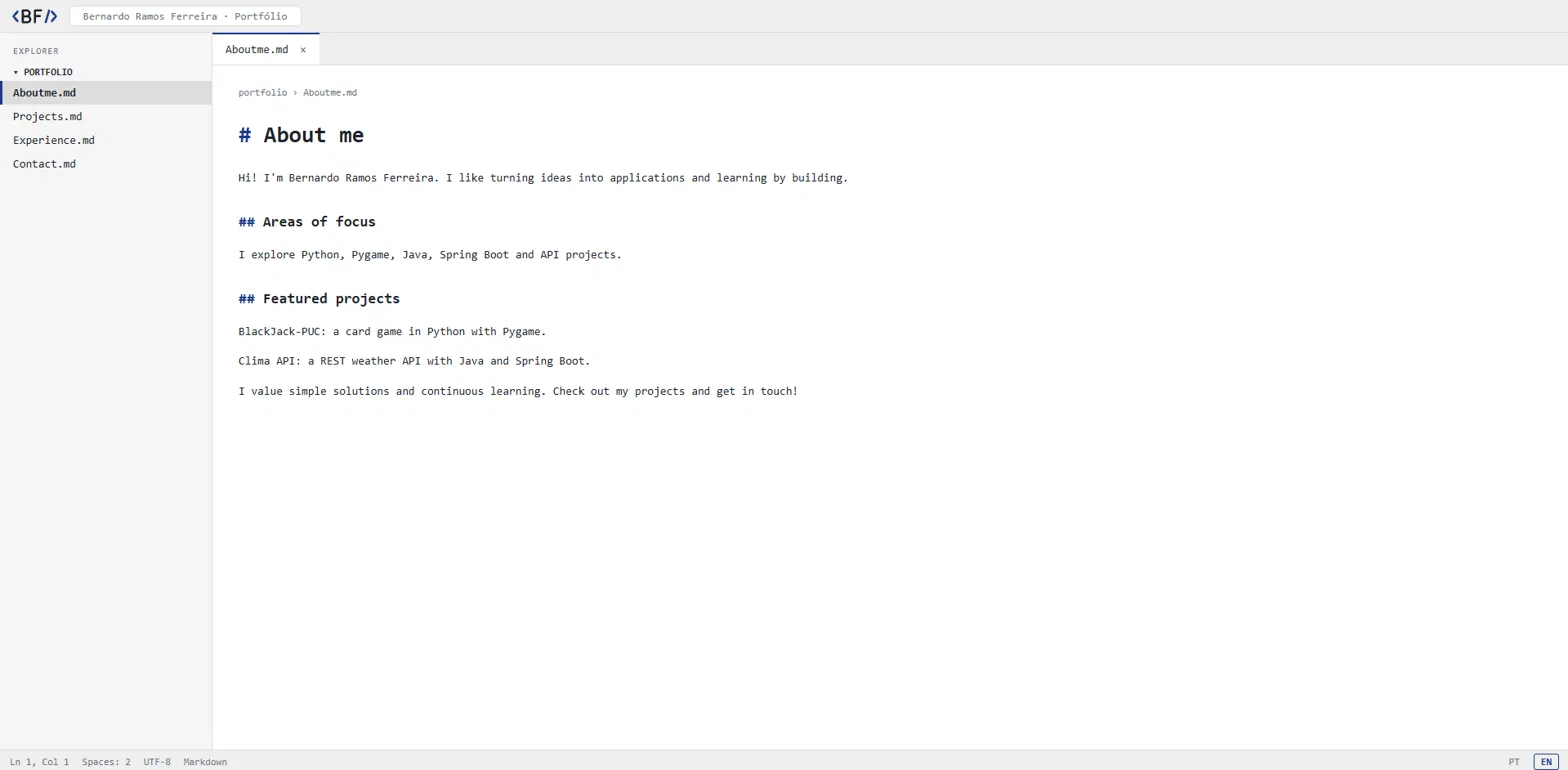
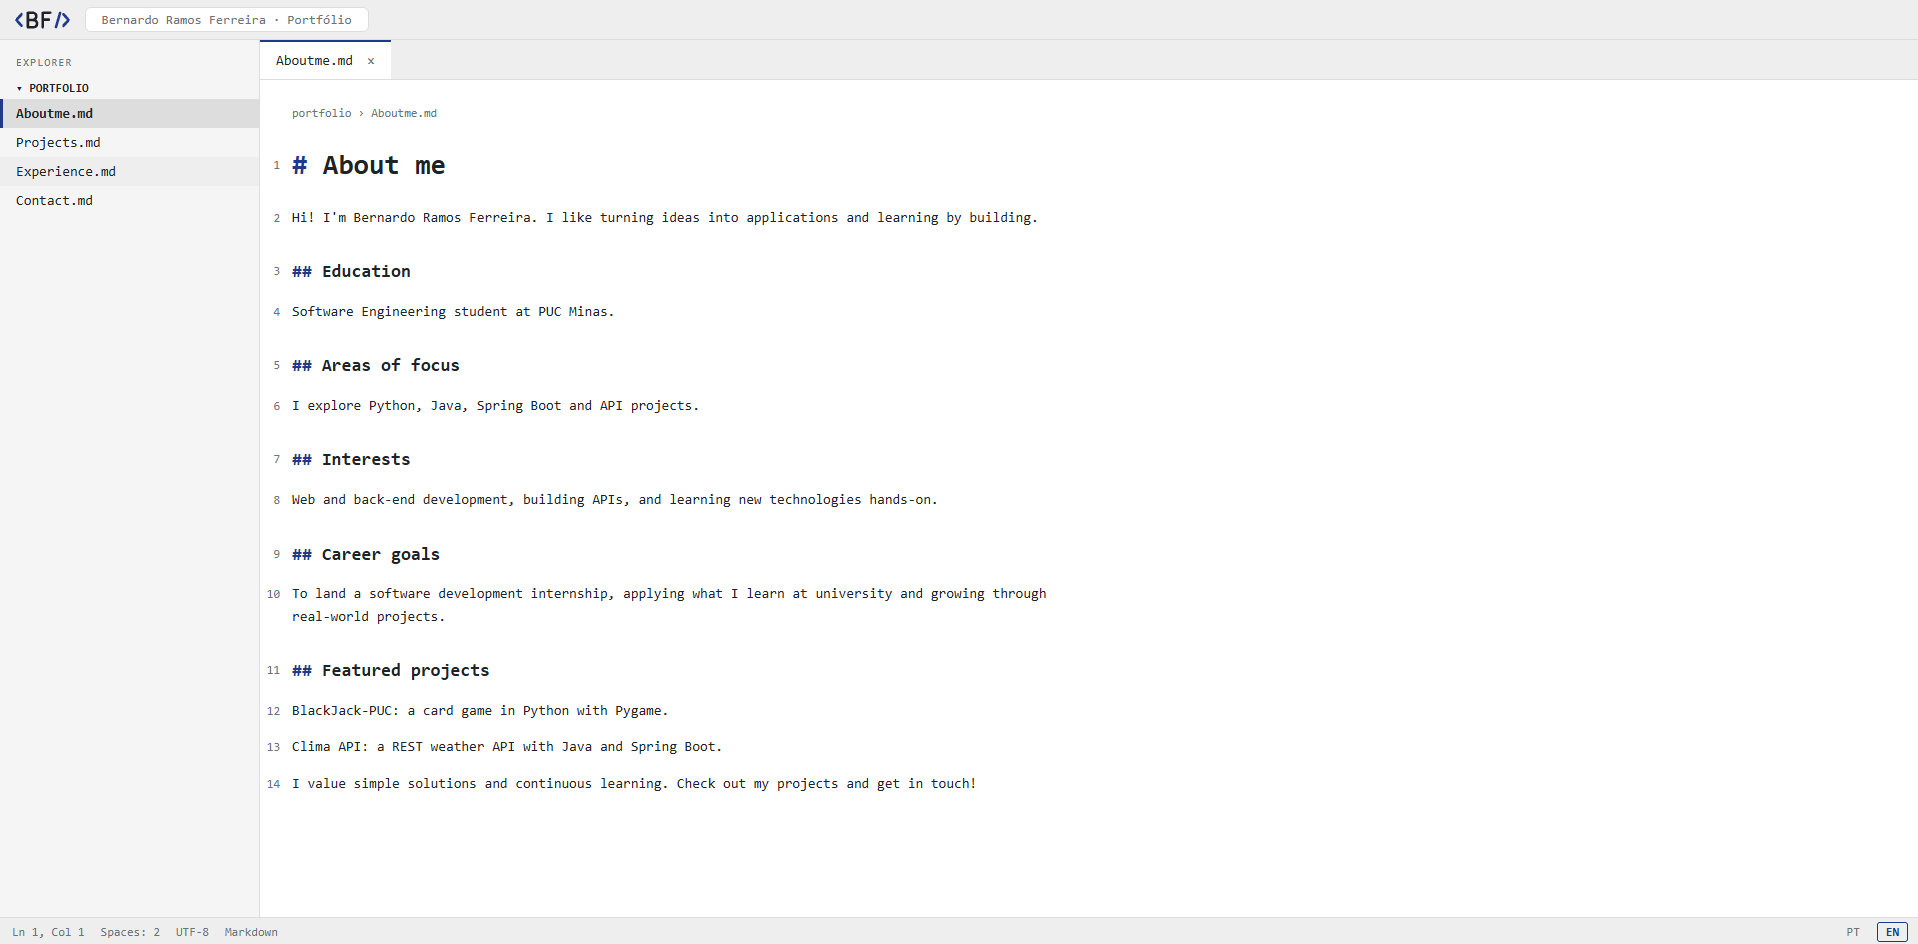
Ícones em contato + prints e readme atualizados após mudanças + descrições completas de projetos

diff --git a/src/i18n/textos.js b/src/i18n/textos.js
@@ -3,8 +3,14 @@ export const textos = {
         sobre: {
             titulo: "Sobre mim",
             apresentacao: "Olá! Sou Bernardo Ramos Ferreira. Gosto de transformar ideias em aplicações e aprender construindo.",
+            formacaoTitulo: "Formação",
+            formacao: "Estudante de Engenharia de Software na PUC Minas.",
             areasTitulo: "Áreas de atuação",
-            areas: "Exploro Python, Pygame, Java, Spring Boot e APIs.",
+            areas: "Exploro Python, Java, Spring Boot e APIs.",
+            interessesTitulo: "Interesses",
+            interesses: "Desenvolvimento web e back-end, criação de APIs e aprender tecnologias novas na prática.",
+            objetivosTitulo: "Objetivos profissionais",
+            objetivos: "Conquistar uma oportunidade de estágio em desenvolvimento de software, aplicando o que aprendo na faculdade e crescendo com projetos reais.",
             destaquesTitulo: "Projetos em destaque",
             destaque1: "BlackJack-PUC: um jogo de cartas em Python com Pygame.",
             destaque2: "Clima API: uma API REST de clima com Java e Spring Boot.",
@@ -47,8 +53,14 @@ export const textos = {
         sobre: {
             titulo: "About me",
             apresentacao: "Hi! I'm Bernardo Ramos Ferreira. I like turning ideas into applications and learning by building.",
+            formacaoTitulo: "Education",
+            formacao: "Software Engineering student at PUC Minas.",
             areasTitulo: "Areas of focus",
-            areas: "I explore Python, Pygame, Java, Spring Boot and API projects.",
+            areas: "I explore Python, Java, Spring Boot and API projects.",
+            interessesTitulo: "Interests",
+            interesses: "Web and back-end development, building APIs, and learning new technologies hands-on.",
+            objetivosTitulo: "Career goals",
+            objetivos: "To land a software development internship, applying what I learn at university and growing through real-world projects.",
             destaquesTitulo: "Featured projects",
             destaque1: "BlackJack-PUC: a card game in Python with Pygame.",
             destaque2: "Clima API: a REST weather API with Java and Spring Boot.",

diff --git a/src/data/projetos.js b/src/data/projetos.js
@@ -4,8 +4,8 @@ export const projetos = [
         nome: "BlackJack-PUC",
         periodo: { pt: "Maio 2026", en: "May 2026" },
         descricao: {
-            pt: "Jogo de cartas em Python",
-            en: "Card game in Python",
+            pt: "Jogo de blackjack em Python com Pygame. O jogador enfrenta o dealer, escolhe entre Hit e Stand e acompanha a pontuação da rodada na tela.",
+            en: "Blackjack game in Python with Pygame. The player faces the dealer, chooses between Hit and Stand, and follows the round score on screen.",
         },
         tecnologias: ["Python", "Pygame"],
         github: "https://github.com/bernardorf5/BlackJack-PUC",
@@ -16,8 +16,8 @@ export const projetos = [
         nome: "Clima API",
         periodo: { pt: "Ago 2026", en: "Aug 2026" },
         descricao: {
-            pt: "API REST de clima com Spring Boot",
-            en: "Weather REST API with Spring Boot",
+            pt: "API REST de clima com Java e Spring Boot. Recebe o nome de uma cidade (/clima?cidade=Lisboa) e devolve em JSON as condições atuais e a previsão de temperatura máxima e mínima dos próximos dias.",
+            en: "Weather REST API with Java and Spring Boot. It takes a city name (/clima?cidade=Lisboa) and returns, as JSON, the current conditions and the max/min temperature forecast for the coming days.",
         },
         tecnologias: ["Java", "Spring Boot"],
         github: "https://github.com/chicortes/DIAW-At01",

diff --git a/src/components/Icone.jsx b/src/components/Icone.jsx
@@ -1,0 +1,40 @@
+const caminhos = {
+    email: (
+        <>
+            <path d="M4 4h16c1.1 0 2 .9 2 2v12c0 1.1-.9 2-2 2H4c-1.1 0-2-.9-2-2V6c0-1.1.9-2 2-2z" />
+            <polyline points="22,6 12,13 2,6" />
+        </>
+    ),
+    whatsapp: (
+        <path d="M21 11.5a8.38 8.38 0 0 1-.9 3.8 8.5 8.5 0 0 1-7.6 4.7 8.38 8.38 0 0 1-3.8-.9L3 21l1.9-5.7a8.38 8.38 0 0 1-.9-3.8 8.5 8.5 0 0 1 4.7-7.6 8.38 8.38 0 0 1 3.8-.9h.5a8.48 8.48 0 0 1 8 8v.5z" />
+    ),
+    linkedin: (
+        <>
+            <path d="M16 8a6 6 0 0 1 6 6v7h-4v-7a2 2 0 0 0-2-2 2 2 0 0 0-2 2v7h-4v-7a6 6 0 0 1 6-6z" />
+            <rect x="2" y="9" width="4" height="12" />
+            <circle cx="4" cy="4" r="2" />
+        </>
+    ),
+    github: (
+        <path d="M9 19c-5 1.5-5-2.5-7-3m14 6v-3.87a3.37 3.37 0 0 0-.94-2.61c3.14-.35 6.44-1.54 6.44-7A5.44 5.44 0 0 0 20 4.77 5.07 5.07 0 0 0 19.91 1S18.73.65 16 2.48a13.38 13.38 0 0 0-7 0C6.27.65 5.09 1 5.09 1A5.07 5.07 0 0 0 5 4.77a5.44 5.44 0 0 0-1.5 3.78c0 5.42 3.3 6.61 6.44 7A3.37 3.37 0 0 0 9 18.13V22" />
+    ),
+}
+
+function Icone({ nome }) {
+    return (
+        <svg
+            className="icone"
+            viewBox="0 0 24 24"
+            fill="none"
+            stroke="currentColor"
+            strokeWidth="2"
+            strokeLinecap="round"
+            strokeLinejoin="round"
+            aria-hidden="true"
+        >
+            {caminhos[nome]}
+        </svg>
+    )
+}
+
+export default Icone

diff --git a/src/pages/Contato.jsx b/src/pages/Contato.jsx
@@ -1,6 +1,7 @@
 import { textos } from '../i18n/textos'
 import { contatos } from '../data/contatos'
 import FormularioContato from '../components/FormularioContato'
+import Icone from '../components/Icone'
 
 function Contato({ idioma }) {
     const t = textos[idioma].contato
@@ -14,7 +15,8 @@ function Contato({ idioma }) {
                 {contatos.map((contato) => (
                     <li key={contato.id}>
                         <a href={contato.link} target={contato.externo ? "_blank" : undefined} rel={contato.externo ? "noreferrer" : undefined}>
-                            {contato.nome} {contato.detalhe}
+                            <Icone nome={contato.id} />
+                            <span>{contato.nome} {contato.detalhe}</span>
                         </a>
                     </li>
                 ))}

diff --git a/src/pages/SobreMim.jsx b/src/pages/SobreMim.jsx
@@ -7,8 +7,14 @@ function SobreMim({ idioma }) {
         <section>
             <h1>{t.titulo}</h1>
             <p>{t.apresentacao}</p>
+            <h2>{t.formacaoTitulo}</h2>
+            <p>{t.formacao}</p>
             <h2>{t.areasTitulo}</h2>
             <p>{t.areas}</p>
+            <h2>{t.interessesTitulo}</h2>
+            <p>{t.interesses}</p>
+            <h2>{t.objetivosTitulo}</h2>
+            <p>{t.objetivos}</p>
             <h2>{t.destaquesTitulo}</h2>
             <p>{t.destaque1}</p>
             <p>{t.destaque2}</p>

diff --git a/src/index.css b/src/index.css
@@ -265,7 +265,9 @@ body {
 }
 
 .canais a {
-    display: block;
+    display: flex;
+    align-items: center;
+    gap: 10px;
     padding: 10px 14px;
     background: var(--bg-lateral);
     border: 1px solid var(--borda);
@@ -275,6 +277,13 @@ body {
 
 .canais a:hover {
     border-color: var(--destaque);
+}
+
+.canais .icone {
+    width: 20px;
+    height: 20px;
+    flex-shrink: 0;
+    color: var(--destaque);
 }
 
 .editor form {

diff --git a/README.md b/README.md
@@ -1,7 +1,6 @@
 # 💻 Portfólio
 
-> [!NOTE]
-> Portfólio profissional em formato de **editor de código**: cada seção do site é um arquivo e os projetos aparecem como commits de um `git log`.
+> Portfólio profissional em formato de **editor de código**: cada seção do site é um arquivo e os projetos aparecem em uma timeline vertical, como um histórico de commits.
 
 <p align="center"><img src="docs/logo.svg" alt="Logo BF" width="200"></p>
 
@@ -9,7 +8,7 @@
 
 ## 🚧 Status do Projeto
 
-![Status](https://img.shields.io/badge/Status-Em_desenvolvimento-yellow?style=for-the-badge)
+![Status](https://img.shields.io/badge/Status-Conclu%C3%ADdo-brightgreen?style=for-the-badge)
 ![React](https://img.shields.io/badge/React-007ec6?style=for-the-badge&logo=react&logoColor=white)
 ![Vite](https://img.shields.io/badge/Vite-007ec6?style=for-the-badge&logo=vite&logoColor=white)
 ![Vercel](https://img.shields.io/badge/Vercel-007ec6?style=for-the-badge&logo=vercel&logoColor=white)
@@ -43,7 +42,7 @@
 
 Este projeto é o meu **portfólio profissional**, desenvolvido no Laboratório 01 da disciplina de Desenvolvimento e Integração de Aplicações Web (DIAW), do curso de Engenharia de Software da PUC Minas.
 
-O objetivo é apresentar minha trajetória, habilidades, projetos e formas de contato de maneira moderna e acessível. Em vez de uma página tradicional, o site simula um **editor de código**: o visitante navega por arquivos (`Sobremim.md`, `Projetos.md`, `Experiencia.md` e `Contato.md`) e acompanha a timeline de projetos como se fosse um histórico de commits.
+O objetivo é apresentar minha trajetória, habilidades, projetos e formas de contato de maneira moderna e acessível. Em vez de uma página tradicional, o site simula um **editor de código**: o visitante navega por arquivos (`Sobremim.md`, `Projetos.md`, `Experiencia.md` e `Contato.md`) e acompanha a timeline de projetos como se fosse um histórico de commits. O site foi pensado para ser lido e navegado com mouse, toque ou teclado.
 
 ---
 
@@ -51,10 +50,11 @@ O objetivo é apresentar minha trajetória, habilidades, projetos e formas de co
 
 📁 **Navegação estilo editor:** explorador de arquivos lateral, aba do arquivo aberto, breadcrumb e barra de status (linha/coluna, espaços, codificação e tipo de arquivo).
 🌐 **Português e inglês:** alternância de idioma (PT/EN) pela barra de status, com o idioma ativo destacado. Os textos e também os nomes dos arquivos são traduzidos (`Sobremim.md` vira `Aboutme.md`).
-🕒 **Timeline de projetos estilo `git log`:** do mais antigo ao mais recente, com nome, descrição, tecnologias, link do GitHub e imagem em cada projeto.
+🕒 **Timeline de projetos:** Timeline com nome, descrição, tecnologias, link do GitHub e imagem em cada projeto.
 💼 **Experiências:** empresa/instituição, cargo ou atividade, período e breve descrição.
-✉ **Contato:** botões clicáveis (e-mail, WhatsApp, LinkedIn) e formulário com nome, e-mail e mensagem, com envio por e-mail e validações básicas.
+✉ **Contato:** ícones clicáveis (e-mail, WhatsApp, LinkedIn e GitHub) e formulário com nome, e-mail e mensagem, com envio por e-mail e validações básicas.
 📱 **Design responsivo:** layout adaptado para desktop e celular.
+♿ **Acessibilidade:** navegação por teclado (arquivos e idioma são botões com foco visível).
 
 ---
 
@@ -83,6 +83,17 @@ As versões exatas ficam registradas no `package.json`.
 | `react` e `react-dom` | Construção da interface com componentes |
 | `vite` | Servidor de desenvolvimento e build |
 | `@emailjs/browser` | Envio do formulário de contato por e-mail |
+| `eslint` e plugins (`react-hooks`, `react-refresh`) | Análise estática do código (`npm run lint`) |
+| `@vitejs/plugin-react` | Integração do React com o Vite |
+
+### 📜 Scripts disponíveis
+
+| Comando | O que faz |
+| :--- | :--- |
+| `npm run dev` | Inicia o servidor de desenvolvimento |
+| `npm run build` | Gera a versão de produção em `/dist` |
+| `npm run preview` | Simula a produção localmente |
+| `npm run lint` | Executa o ESLint |
 
 ---
 
@@ -92,15 +103,17 @@ Aplicação **front-end (SPA)** sem back-end próprio. A interface é dividida e
 
 **Principais componentes:**
 
-- **Titlebar:** barra superior com a logo e o título do site.
+- **TitleBar:** barra superior com a logo e o título do site.
 - **Explorer:** lista de arquivos (as seções do portfólio).
 - **Tabs:** aba do arquivo aberto.
 - **Editor:** área central que exibe o breadcrumb e o conteúdo do arquivo selecionado.
+- **FormularioContato:** formulário da página de contato, com validação e envio via EmailJS.
+- **Icone:** ícones SVG (e-mail, WhatsApp, LinkedIn e GitHub) usados nos canais de contato.
 - **StatusBar:** barra inferior com as informações do arquivo e o seletor de idioma (PT/EN).
 
 **Decisões de projeto:**
 
-- Os dados (arquivos, projetos, experiências e textos em PT/EN) ficam em arquivos separados do código dos componentes. Cada texto traduzido é um objeto com as chaves `pt` e `en`, então o componente só escolhe `texto[idioma]`. Para adicionar um projeto novo, basta incluir um item na lista.
+- Os dados (arquivos, contatos, projetos, experiências e textos em PT/EN) ficam em arquivos separados do código dos componentes. Cada texto traduzido é um objeto com as chaves `pt` e `en`, então o componente só escolhe `texto[idioma]`.
 - O estado da interface (arquivo aberto e idioma) é controlado pelo React no `App.jsx` e repassado aos componentes por props.
 - As imagens dos projetos ficam em `public/projetos/` e são acessadas pelo caminho `/projetos/arquivo.png`.
 
@@ -169,9 +182,12 @@ O site é publicado gratuitamente na **Vercel**, com atualização automática a
 ├── .env.example             # 🧩 Exemplo das variáveis de ambiente (sem valores reais)
 ├── index.html               # 📄 Página base (título e ícone da aba)
 ├── package.json             # 📦 Dependências e scripts
+├── package-lock.json        # 🔒 Versões exatas das dependências
 ├── vite.config.js           # ⚙ Configuração do Vite
+├── eslint.config.js         # 🧪 Regras do ESLint
 │
 ├── /public
+│   ├── logo.svg             # 🔷 Ícone da aba do navegador
 │   └── /projetos            # 🖼 Imagens e GIFs da timeline de projetos
 ├── /docs
 │   ├── logo.svg             # 🔷 Logo usada neste README
@@ -185,10 +201,27 @@ O site é publicado gratuitamente na **Vercel**, com atualização automática a
     ├── App.jsx              # 🧱 Layout principal e estado (arquivo aberto e idioma)
     ├── index.css            # 🎨 Estilos globais
     ├── /assets              # 🖼 Logo utilizada no código
-    ├── /components          # 🧱 Titlebar, Explorer, Tabs, Editor, StatusBar
-    ├── /pages               # 📄 Conteúdo de cada arquivo: Sobre mim, Projetos, Experiência, Contato
-    ├── /data                # 🗂 Arquivos do explorador, projetos e experiências
+        └── logo.svg        
+    ├── /components          # 🧱 Editor, Explorer, FormularioContato, Icone, StatusBar, Tabs, TitleBar
+        ├── Editor.jsx
+        ├── Explorer.jsx
+        ├── FormularioContato.jsx
+        ├── Icone.jsx
+        ├── StatusBar.jsx
+        ├── Tabs.jsx
+        └── TitleBar.jsx         
+    ├── /pages               # 📄 Conteúdo de cada arquivo: Contato, Experiência, Projetos, SobreMim
+        ├── Contato.jsx
+        ├── Experiencia.jsx
+        ├── Projetos.jsx
+        └── SobreMim.jsx
+    ├── /data                # 🗂 Dados de: Arquivos, Contatos, Experiências e Projetos
+        ├── arquivos.js
+        ├── contatos.js
+        ├── experiencias.js
+        └── projetos.js
     └── /i18n                # 🌐 Textos em português e inglês
+        └── textos.js               
 ```
 
 ---
@@ -202,7 +235,7 @@ O site é publicado gratuitamente na **Vercel**, com atualização automática a
 | <img src="docs/site/desktop/sobre-mim-pt.png" alt="Site em português: Sobre mim" width="400"> | <img src="docs/site/desktop/about-me-en.png" alt="Site em inglês: About me" width="400"> |
 | **Projetos** | **Projects** |
 | <img src="docs/site/desktop/projetos-pt.png" alt="Site em português: Projetos" width="400"> | <img src="docs/site/desktop/projects-en.png" alt="Site em inglês: Projects" width="400"> |
-| **Experiência** | **Experience** |
+| **Experiências** | **Experiences** |
 | <img src="docs/site/desktop/experiencia-pt.png" alt="Site em português: Experiência" width="400"> | <img src="docs/site/desktop/experience-en.png" alt="Site em inglês: Experience" width="400"> |
 | **Contato** | **Contact** |
 | <img src="docs/site/desktop/contato-pt.png" alt="Site em português: Contato" width="400"> | <img src="docs/site/desktop/contact-en.png" alt="Site em inglês: Contact" width="400"> |
@@ -211,15 +244,15 @@ O site é publicado gratuitamente na **Vercel**, com atualização automática a
 
 No celular, o explorador de arquivos vira uma barra de abas rolável na horizontal, acima do arquivo aberto.
 
-| Sobre mim | Projetos | Experiência | Contato |
+| Sobre mim | Projetos | Experiências | Contato |
 | :---: | :---: | :---: | :---: |
 | <img src="docs/site/mobile/mobile-sobre-mim-pt.png" alt="Mobile em português: Sobre mim" height="400"> | <img src="docs/site/mobile/mobile-projetos-pt.png" alt="Mobile em português: Projetos" height="400"> | <img src="docs/site/mobile/mobile-experiencia-pt.png" alt="Mobile em português: Experiência" height="400"> | <img src="docs/site/mobile/mobile-contato-pt.png" alt="Mobile em português: Contato" height="400"> |
-| **About me** | **Projects** | **Experience** | **Contact** |
+| **About me** | **Projects** | **Experiences** | **Contact** |
 | <img src="docs/site/mobile/mobile-about-me-en.png" alt="Mobile em inglês: About me" height="400"> | <img src="docs/site/mobile/mobile-projects-en.png" alt="Mobile em inglês: Projects" height="400"> | <img src="docs/site/mobile/mobile-experience-en.png" alt="Mobile em inglês: Experience" height="400"> | <img src="docs/site/mobile/mobile-contact-en.png" alt="Mobile em inglês: Contact" height="400"> |
 
 ### 🎨 Protótipos (Sprint 1)
 
-Wireframes de média fidelidade feitos no Figma. O protótipo previa um terminal integrado, que ficou fora da versão final para priorizar as seções obrigatórias.
+Wireframes de média fidelidade feitos no Figma. O protótipo previa um terminal integrado e alguns detalhes de estilização, que ficaram fora da versão final para priorizar as seções obrigatórias.
 
 #### 💻 Desktop
 
@@ -249,7 +282,7 @@ Wireframes de média fidelidade feitos no Figma. O protótipo previa um terminal
 
 ## 👥 Autores
 
-| 👤 Nome | :octocat: GitHub | 💼 LinkedIn | 📤 E-mail |
+| 👤 Nome | ![github](https://img.shields.io/badge/GitHub-100000?style=for-the-badge&logo=github&logoColor=white)| ![LinkedIn](https://img.shields.io/badge/LinkedIn-0077B5?style=for-the-badge&logo=linkedin&logoColor=white) | ![gmail](https://img.shields.io/badge/Gmail-D14836?style=for-the-badge&logo=gmail&logoColor=white) |
 |---------|------------------|-------------|-----------|
 | Bernardo Ramos Ferreira | [GitHub](https://github.com/bernardorf5) | [LinkedIn](https://www.linkedin.com/in/bernardoramosferreira) | [E-mail](mailto:bernardoramosf22@gmail.com) |
 
